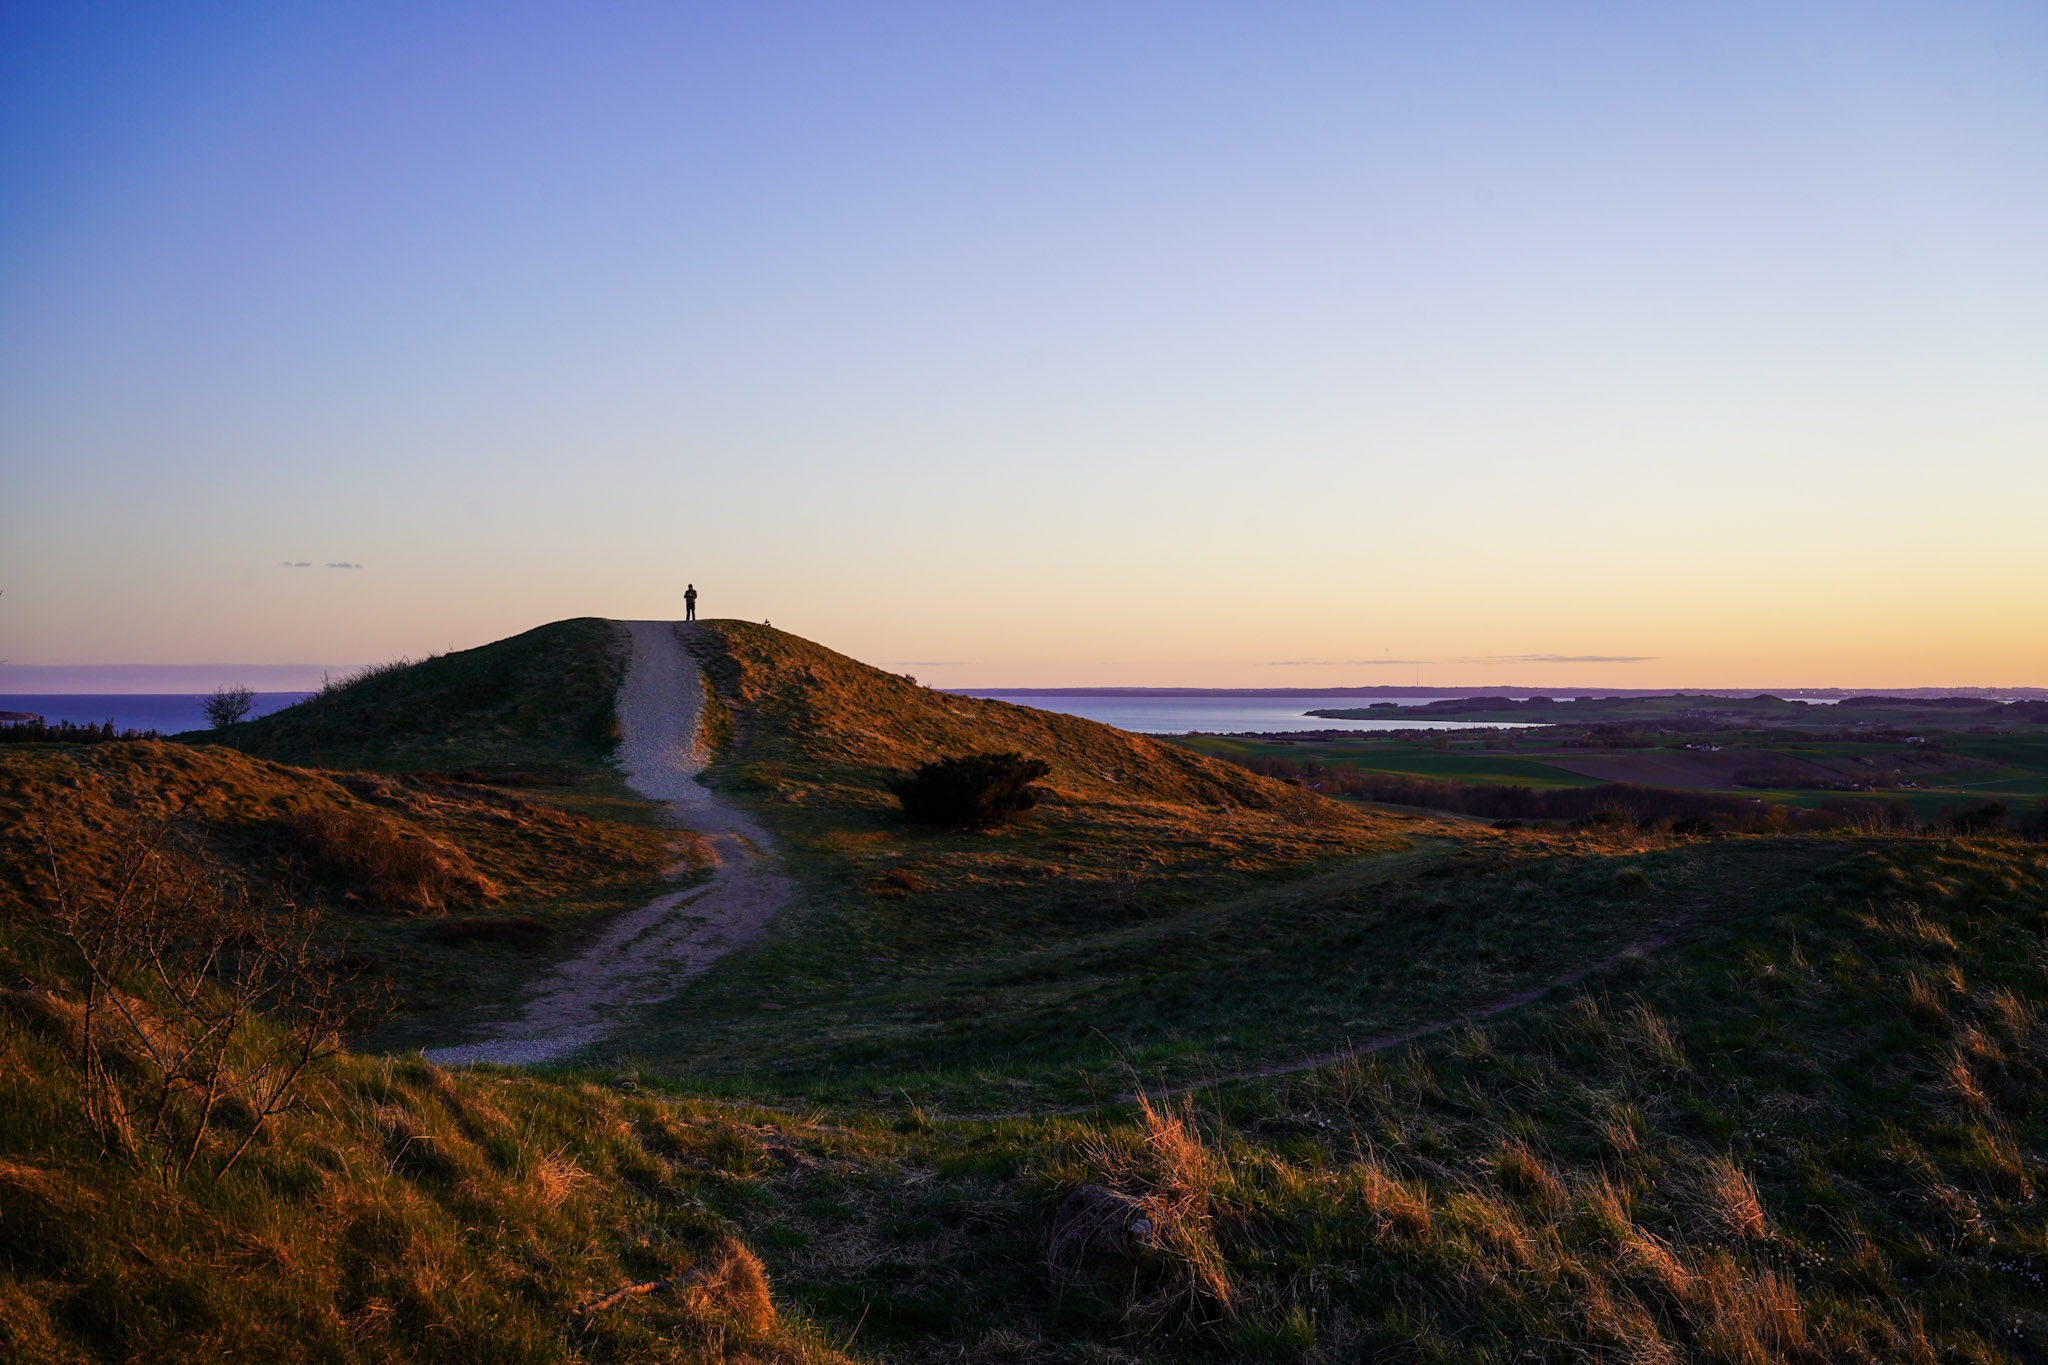
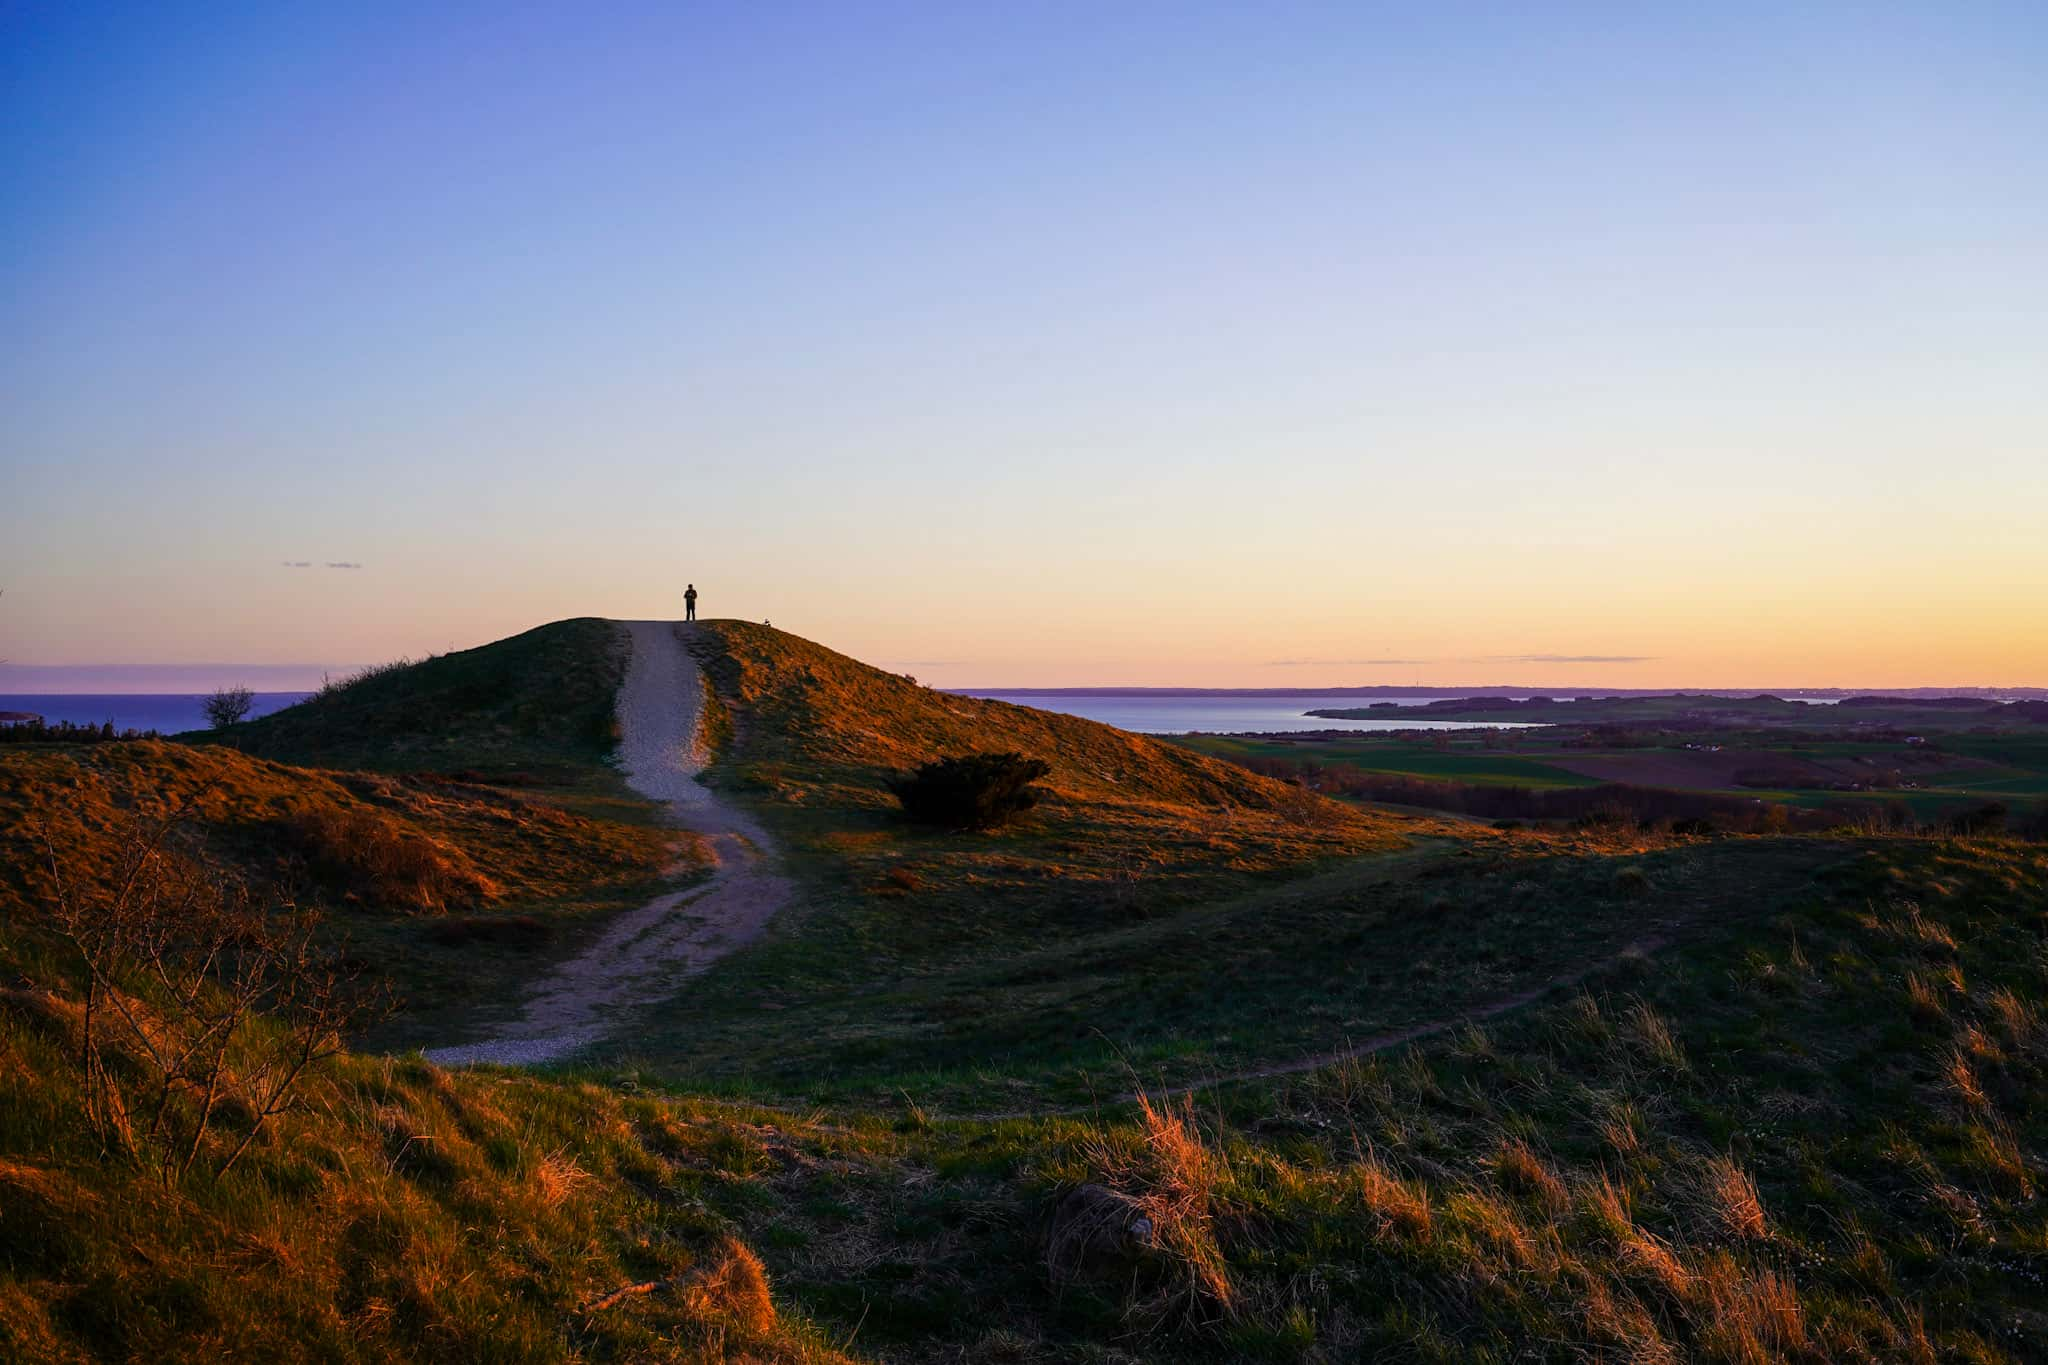
Added smaller sized photos for better loading

diff --git a/frontend/app/routes/blogCategory.css b/frontend/app/routes/blogCategory.css
@@ -8,8 +8,8 @@
   gap: 12px;
 }
 
-.blog-category__header h1 {
-  font-size: 18px;
+.blog-category__header h2 {
+  font-size: 24px;
 }
 
 .blog-category__back {
